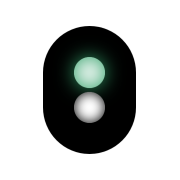
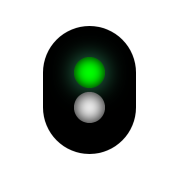
traffic-light 色味を変更

Changed region(s): [[0.3889, 0.3056, 0.5833, 0.5], [0.4167, 0.5278, 0.5556, 0.6667]]

diff --git a/traffic-light/css/index.css b/traffic-light/css/index.css
@@ -17,7 +17,7 @@ main h2 {
 #outer > li {
     background-color: #fff;
     border-radius: 100%;
-    box-shadow: 0 0 1.5rem 0 #000 inset;
+    box-shadow: 0 0 2rem 0 #000 inset;
     height: 4rem;
     width: 4rem;
 }
@@ -27,21 +27,24 @@ main h2 {
 }
 
 #outer > .r {
+    background-color: #f00;
     box-shadow:
-        0 0 3rem 0 rgb(255, 40, 0),
-        0 0 3rem 0 rgb(255, 40, 0) inset;
+        0 0 1.5rem 0 #000 inset,
+        0 0 3rem 0 rgb(255, 40, 0);
 }
 
 #outer > .y {
+    background-color: #ff0;
     box-shadow:
-        0 0 3rem 0 rgb(250, 245, 0),
-        0 0 3rem 0 rgb(250, 245, 0) inset;
+        0 0 1.5rem 0 #000 inset,
+        0 0 3rem 0 rgb(250, 245, 0);
 }
 
 #outer > .g {
+    background-color: #0f0;
     box-shadow:
-        0 0 3rem 0 rgb(53, 161, 107),
-        0 0 3rem 0 rgb(53, 161, 107) inset;
+        0 0 1.5rem 0 #000 inset,
+        0 0 3rem 0 rgb(53, 161, 107);
 }
 
 #outer > .yf {
@@ -50,17 +53,30 @@ main h2 {
 
 @keyframes yellow_flicker {
     0% {
+        background-color: #ff0;
         box-shadow:
-            0 0 3rem 0 rgb(250, 245, 0),
-            0 0 3rem 0 rgb(250, 245, 0) inset;
+            0 0 1.5rem 0 #000 inset,
+            0 0 3rem 0 rgb(250, 245, 0);
+    }
+    49% {
+        background-color: #ff0;
+        box-shadow:
+            0 0 1.5rem 0 #000 inset,
+            0 0 3rem 0 rgb(250, 245, 0);
     }
     50% {
-        box-shadow: 0 0 1.5rem 0 #000 inset;
+        background-color: #fff;
+        box-shadow: 0 0 2rem 0 #000 inset;
+    }
+    99% {
+        background-color: #fff;
+        box-shadow: 0 0 2rem 0 #000 inset;
     }
     100% {
+        background-color: #ff0;
         box-shadow:
-            0 0 3rem 0 rgb(250, 245, 0),
-            0 0 3rem 0 rgb(250, 245, 0) inset;
+            0 0 1.5rem 0 #000 inset,
+            0 0 3rem 0 rgb(250, 245, 0);
     }
 }
 
@@ -70,17 +86,30 @@ main h2 {
 
 @keyframes green_flicker {
     0% {
+        background-color: #0f0;
         box-shadow:
-            0 0 3rem 0 rgb(53, 161, 107),
-            0 0 3rem 0 rgb(53, 161, 107) inset;
+            0 0 1.5rem 0 #000 inset,
+            0 0 3rem 0 rgb(53, 161, 107);
+    }
+    49% {
+        background-color: #0f0;
+        box-shadow:
+            0 0 1.5rem 0 #000 inset,
+            0 0 3rem 0 rgb(53, 161, 107);
     }
     50% {
-        box-shadow: 0 0 1.5rem 0 #000 inset;
+        background-color: #fff;
+        box-shadow: 0 0 2rem 0 #000 inset;
+    }
+    99% {
+        background-color: #fff;
+        box-shadow: 0 0 2rem 0 #000 inset;
     }
     100% {
+        background-color: #0f0;
         box-shadow:
-            0 0 3rem 0 rgb(53, 161, 107),
-            0 0 3rem 0 rgb(53, 161, 107) inset;
+            0 0 1.5rem 0 #000 inset,
+            0 0 3rem 0 rgb(53, 161, 107);
     }
 }
 

diff --git a/traffic-light/index.html b/traffic-light/index.html
@@ -5,7 +5,7 @@
 <meta name="viewport" content="width=device-width, initial-scale=1, user-scalable=no", minimal-ui>
 <meta name="apple-mobile-web-app-capable" content="yes">
 <meta name="apple-mobile-web-app-status-bar-style" content="default">
-<title>鉄道信号機シミュレーター | 信号機シミュレーター | Lunaisise Pages</title>
+<title>鉄道信号機シミュレーター | 信号機シミュレーター | lunaisise Pages</title>
 <link rel="stylesheet" href="css/common.css">
 <link rel="stylesheet" href="css/index.css">
 <link rel="icon" type="image/x-icon" href="traffic-light_icon.png">
